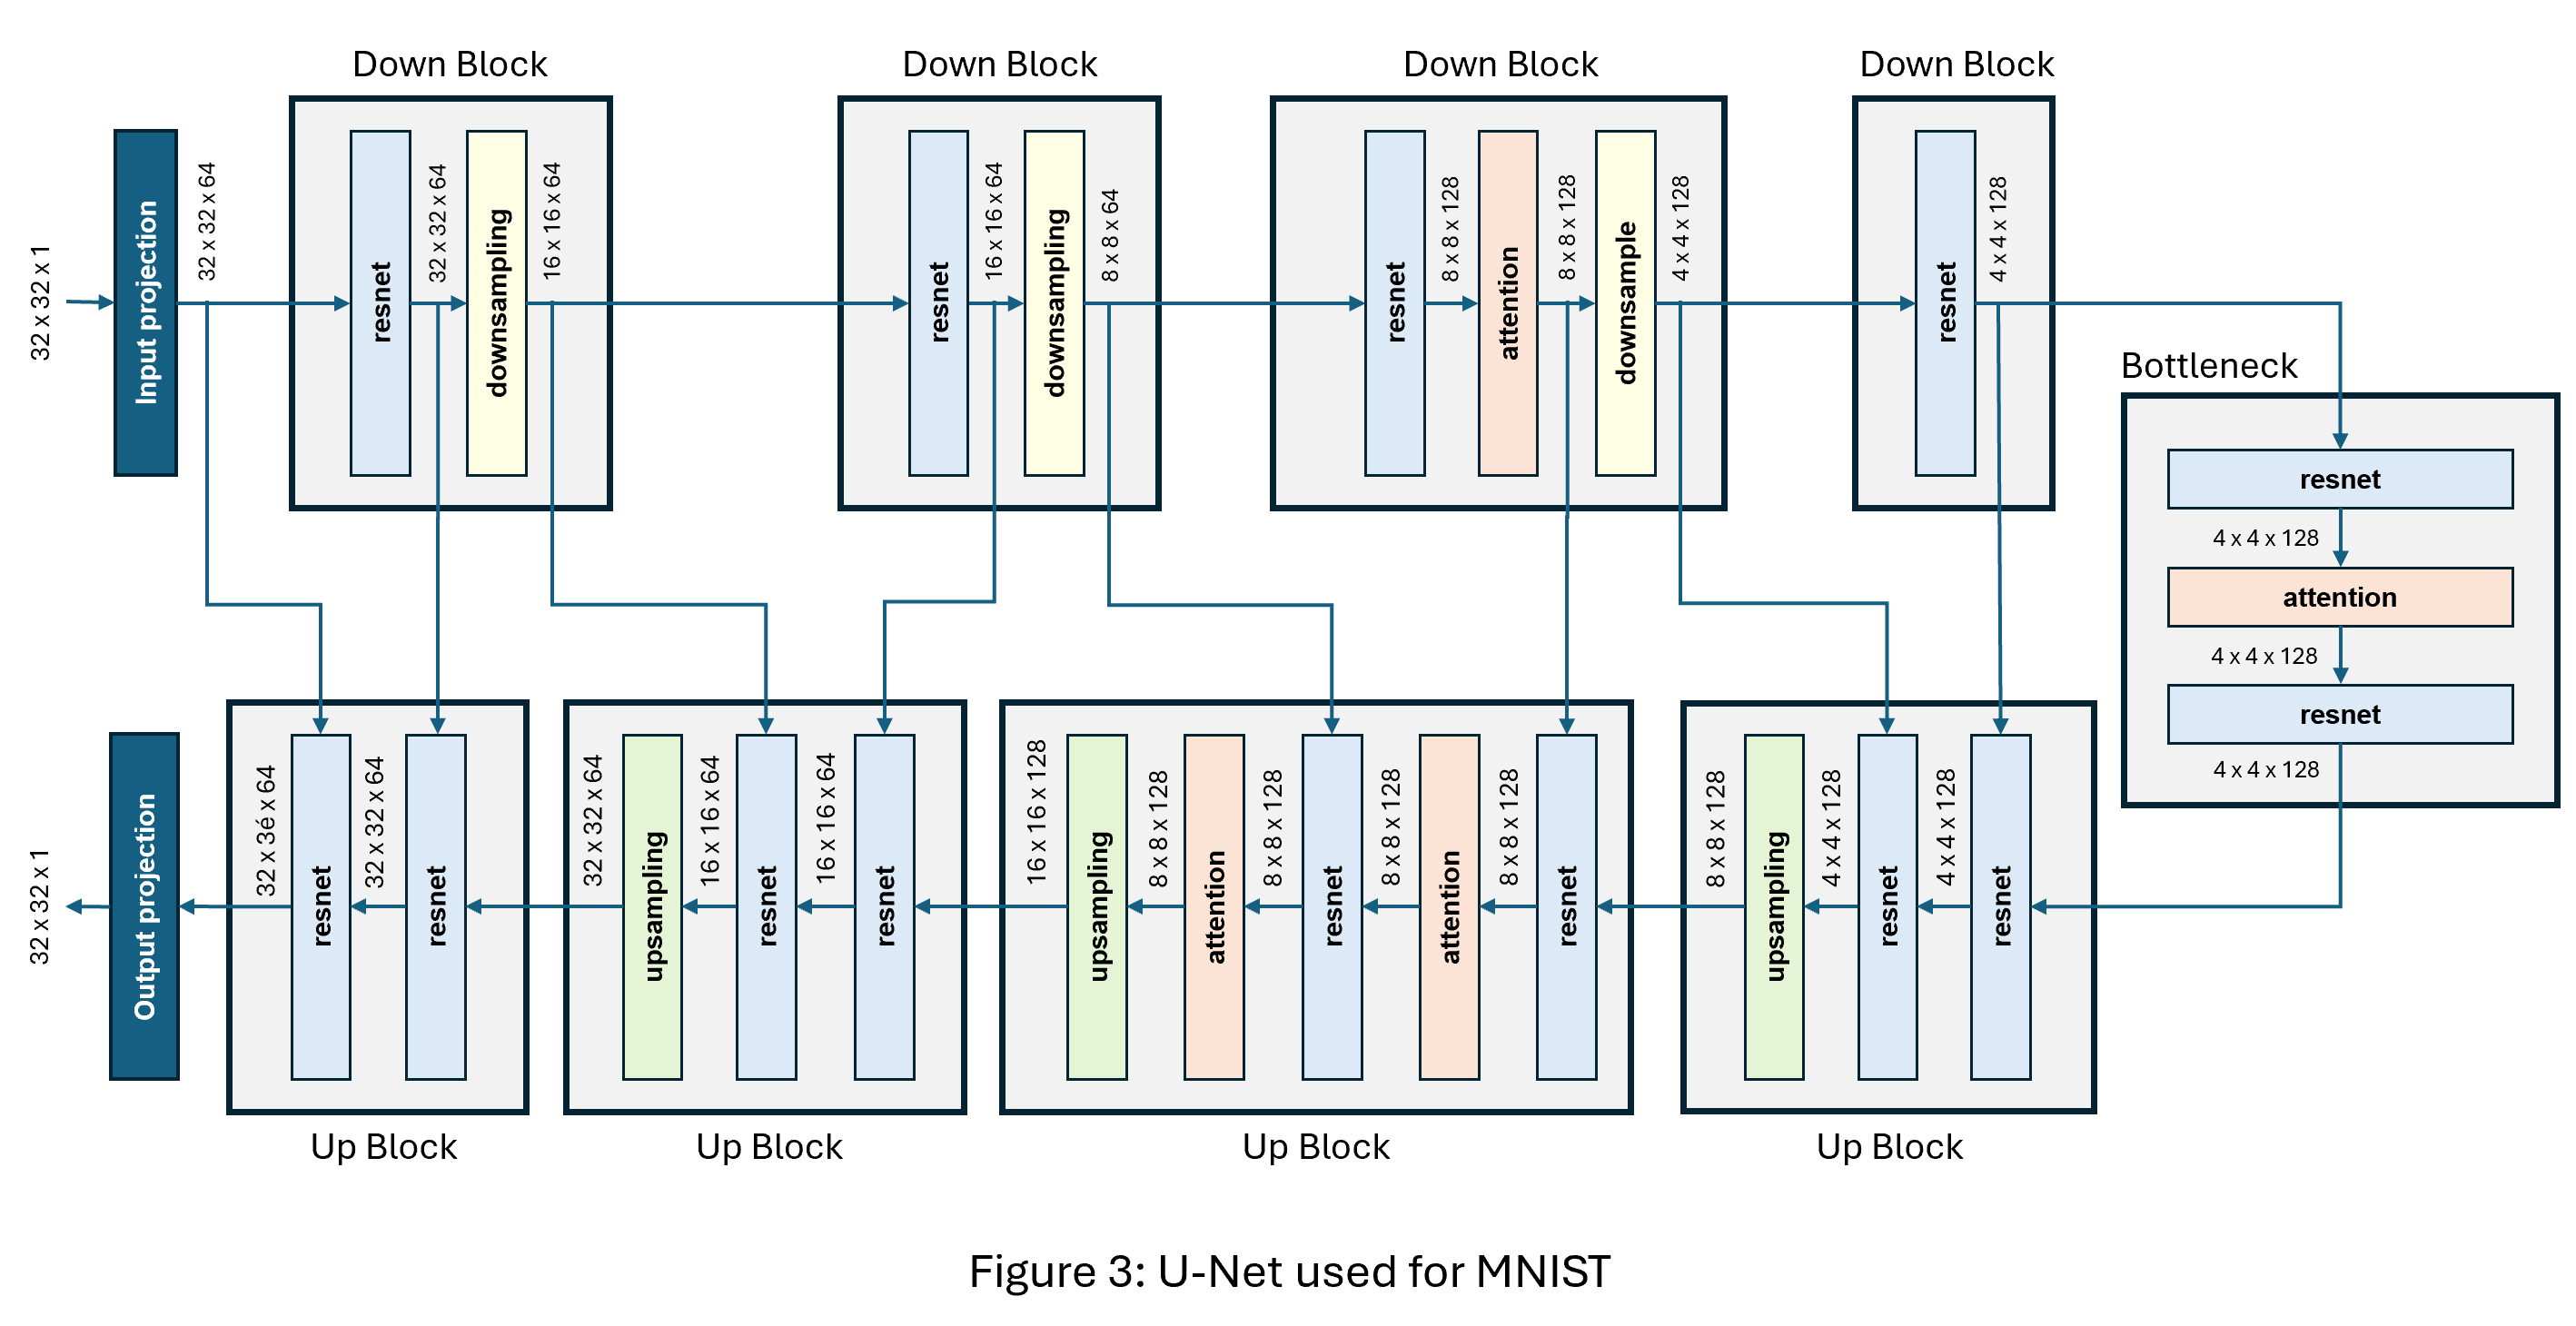
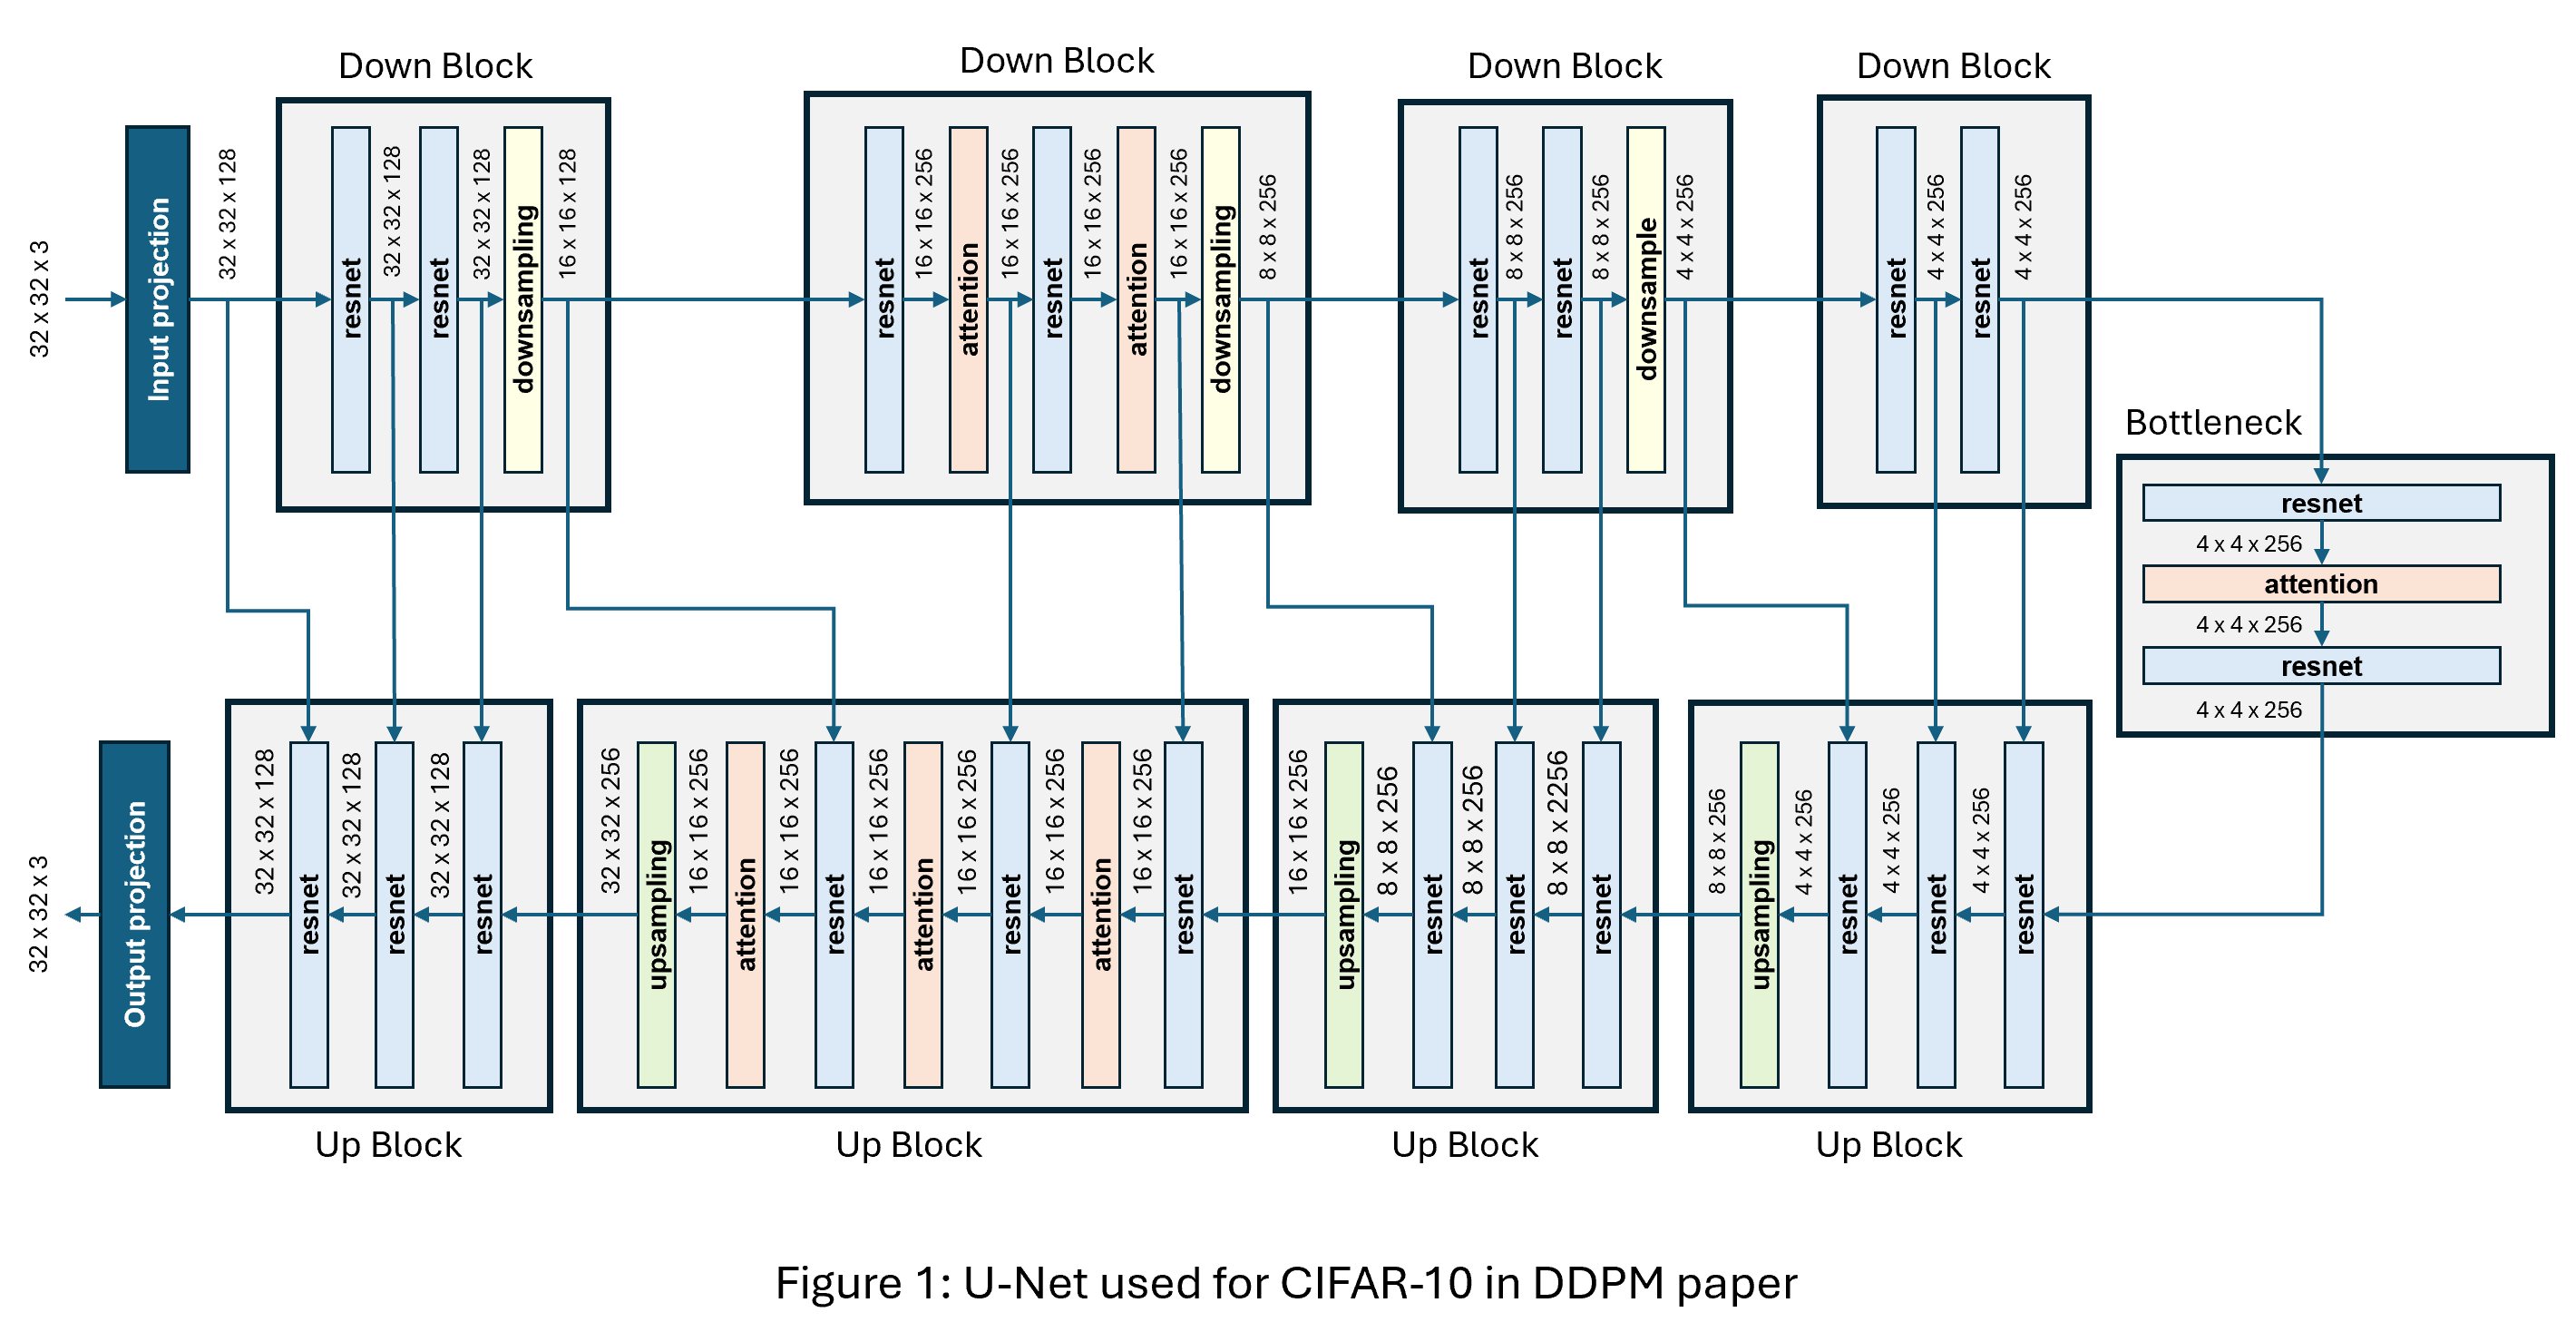
Added DDPM sampling results to README

diff --git a/README.md b/README.md
@@ -23,7 +23,9 @@ The goal of this project was to recreate the DDPM model from the 2020 paper by J
 
 While excellent PyTorch implementations of DDPM already exist (such as those by [lucidrains](https://github.com/lucidrains/denoising-diffusion-pytorch), [OpenAI](https://github.com/openai/improved-diffusion), [mattroz](https://github.com/mattroz/diffusion-ddpm), and [cloneofsimo](https://github.com/cloneofsimo/minDiffusion)), high-quality, modern TensorFlow/Keras implementations are far less common. For that reason, I chose to implement my model in TensorFlow.
 
-The math underlying diffusion models, the training and sampling algorithms, and the training setup are well-documented in the DDPM paper. However, the architecture of the U-Net is only described at a high-level (section "B. Experimental details"). Because my goal was to directly compare my FID (Fréchet Inception Distance) scores with those reported in the paper, an exact architecture match was required. As a last resort, I looked for the missing details in [Jonathan Ho's GitHub repository](https://github.com/hojonathanho/diffusion).
+The math underlying diffusion models, the training and sampling algorithms, and the training setup are well-documented in the DDPM paper. However, the architecture of the U-Net is only described at a high-level (section "B. Experimental details"). Because my goal was to directly compare my FID (Fréchet Inception Distance) scores with those reported in the paper, an exact architecture match was required.
+
+As a last resort, I looked for the missing U-Net details in [Jonathan Ho's GitHub repository](https://github.com/hojonathanho/diffusion) whose address is provided in the paper. The code is in TensorFlow 1, which is now obsolete.
 
 I first used the MNIST dataset with a light-weight U-Net as a "pipe-cleaner". The shorter runtimes facilitated the validation of training and sampling flows, and FID calculations.
 
@@ -108,7 +110,7 @@ I made the following changes to the CIFAR-10 U-Net used in the DDPM paper:
 
  With only 4.9M parameters, the MNIST U-Net is much smaller than the CIFAR-10 U-Net that has 35.9M parameters.
 
-### 5.2 Training setup
+### 5.2 Training
 
 I used the training setup described in Appendix B "Experimental details" of the DDPM paper:
 
@@ -118,17 +120,27 @@ I used the training setup described in Appendix B "Experimental details" of the 
 - Optimizer: Adam with learning rate 2e-4
 - Batch size: 128
 
-I trained the model for 250 epochs.
+I trained the model for 500 epochs. The MNIST training set has 60,000 images, so this represents ~234K optimization steps.
 
-### 5.3 FID score
+The MSE loss value as a function of epochs is shown in Figure 4. 
 
-Using 10,000 images from the MNIST training set and DDIM sampling with 50 steps, the FID score is 29.8. 
+![](pictures/mnist_loss.png)
 
-This is not a good score, but it was expected given the small size of the U-Net. The goal was not to obtain state-of-the-art results.
+### 5.3 FID scores
+
+Using the 60,000 images from the MNIST training set as the reference distribution, the FID scores I obtained are shown in the table below. 
+
+|  Steps   |   FID   |
+|----------|---------|
+|      10  |  22.15  |
+|      20  |  20.01  |
+|      50  |  19.46  |
+
+These are hardly decent results, but they were to be expected given the small size of the U-Net (only 4.9M parameters).
 
 ### 5.4 Visualizing generated images
 
-Examples of images generated with the DDPM sampling method are shown in Figure 4. The images are shown at different timesteps of the reverse process.
+Examples of MNIST images generated using the DDPM sampling method are shown in Figure 4. The images are shown at different timesteps of the reverse process.
 
 ![](pictures/mnist_ddpm_samples.png)
 
@@ -151,44 +163,62 @@ I used the training setup described in appendix B "Experimental results" of the 
 
 Ho et al. specified that they trained their model for ~800k steps with a batch size of 128, which represents 2048 epochs, so I did the same.
 
-The loss values for each epoch are shown in Figure x. No more improvement is visible when the training ends at epoch 2048.
+The loss value at each training epoch is shown in Figure 6. It is still decreasing when the training ends after 2028 epochs. Maybe Ho et al. stopped after 800K steps to avoid overfitting.
 
-Runtime on an A100 GPU was 48sec/epoch on an A100 GPU, so the training took ~27 hours to run.
+Runtime on an A100 GPU was 48sec/epoch, so the training took ~27 hours.
 
-![](pictures/mse_loss.png)
+![](pictures/cifar10_loss.png)
 
 ### 6.3 FID scores
 
-Like Ho et al., I used the 50,000 images of the CIFAR-10 training set as the reference distribution.
+Like Ho et al., I used the 50,000 images of the CIFAR-10 training set as the reference distribution. 
 
-I computed the FID at epoch 1200 of the training, which is about half-way to Ho et al.'s 800K steps. Using deterministic DDIM sampling with 200 steps, the computed value is 4.94.
+The FID values Song et al. mentioned in their paper (Table 1) are shown in the table below, together with my own results.
 
-FID values at the end of the training at epoch 2048 are shown in the table below for different numbers of DDIM steps, together with the runtimes on an A100 GPU generating batches of 2000 images.
+|  Steps   |  Song et al.  |  My model   |
+|----------|---------------|-------------|
+|      10  |     13.36     |    15.82    |
+|      20  |      6.84     |     7.83    |
+|      50  |      4.67     |     5.06    |
+|     100  |      4.16     |     4.49    |
+|    1000  |      4.04     |     4.14    |
 
+Although not as good as the FID scores Song et al. reported, my results are all in the same ballpark, and nearly identical for 100  and 1000 steps.
 
-|  Denoising steps  |  Sampling method   |   FID  |  Runtime (hh:mm)  |
-|-------------------|-----------|-----------|---------------------|
-|      50           |    DDIM   |   5.77    |         0:20        |
-|     100           |    DDIM   |   4.53    |         0:41        |
-|     200           |    DDIM   |   4.11    |         1:22        |
-|    1000           |    DDPM   |           |                     |
+In section "D.1 Datasets and architectures" of "Appendix D. Experimental Details" of their paper, Song et al. specified: *"We use the pretrained models from Ho et al.(2020) for CIFAR10"*. They did not create and train their own model, like I did, so their numbers truly reflect the performance of Ho et al.'s model.
 
-As expected:
+Given how close my FID results are, it is very unlikely that differences could be caused by a misalignment of model architectures. They most probably originate from the training.
 
-- The FID improves with the number of steps.
-- Because they are dominated by the number of forward passes through the U-Net, runtimes increase linearly with the number of steps.
+Looking into Ho's code on GitHub, I could spot the following enhancements that are not documented in their paper, which I did not implement:
 
-Note that the 200-step-DDIM FID decreased from 4.94 after 1200 training epochs to 4.11 after 2048 epochs.
+- They used a 5000 steps warmup before holding the learning rate steady at 2e-4.
+- They clipped gradients to 1.0.
 
-Ho et al. reported an FID value of 3.17 using the 50,000 images of the CIFAR-10 training set as the reference distribution (Table 1 in the paper).
+FID mismatches could also come from subtle numerical differences between GPU and TPU training (they used TPU), and from random generation differences due to different hardware and seeds. 
+
+In their paper, Ho et al. reported an FID value of 3.17. Using their sampling method, I got an FID of 6.43 with a first run, and 5.71 with a second run after changing the random generation seed. With this method, which is statistical, changing seeds or hardware (they used TPU, I used GPU) yields significantly different results. It is unknown if Ho et al. could reliably reproduce their 3.17 run.
+
+I ran DDIM sampling with eta=1, making sampling statistical and approaching DDPM. Using 100 steps, I obtained an FID of 5.76. This is consistent with the DDPM sampling results.
+
+### 6.4 Sampling runtimes
+
+The table below shows the runtimes on an A100 GPU to generate 50,000 CIFAR-10 images, using DDIM sampling with different numbers of steps. Because they are dominated by the number of forward passes through the U-Net, runtimes increase linearly with the number of steps.
+
+|  Steps  |  A100 runtime (h:mm:ss)  |
+|---------|------------------------|
+|    10   |       0:04:74          |
+|    20   |       0:09:57          |
+|    50   |       0:20:49          |
+|   100   |       0:41:00          |
+|  1000   |       6:55:10          |
 
 ### 6.4 Visualizing generated images
 
-Figure 7 shows examples of images obtained using the DDPM sampling method.
+Figure 7 shows examples of images obtained using the DDPM sampling method, which yields an FID of 4.40.
 
 ![](pictures/cifar10_ddpm_samples.png)
 
-Figure 8 shows images generated using the DDIM sampling method with 200 steps.
+Figure 8 shows images generated using the DDIM sampling method with 100 steps.
 
 Examples of generative "hallucinations" are shown on the last row of images:
 
@@ -197,13 +227,21 @@ Examples of generative "hallucinations" are shown on the last row of images:
 - A pink cat
 - A deer with front legs shaped like horns
 
-The images were obtained using only 25 DDIM steps, which corresponds to an FID of x.
+The images were obtained using only 100 DDIM steps, which corresponds to an FID of 4.40.
 
 ![](pictures/cifar10_ddim_samples.png)
 
 
 ## 7. Conclusion
 
-Recreating the diffusion model from the landmark DDPM paper by Jonathan Ho et al. bridged the gap between the theoretical generative equations and the intricacies of the U-Net architecture, training and evaluation procedures, and interpretation of results.
+Recreating the diffusion model from the landmark DDPM paper by Jonathan Ho et al. bridged the gap between the theoretical generative equations and the intricacies of the U-Net architecture, training and sampling methods, and interpretation of results.
 
-It was absolutely fascinating to observe images progressively emerging from noise during the reverse process!
+The main difficulty was to recreate the U-Net used in the DDPM paper. As many details were missing in the paper, I had to reverse-engineer the authors' TensorFlow 1 code on GitHub.
+
+I used the training setup described in Ho et al.'s paper. Looking into their code afterwards, they used gradient clipping and learning rate warmup steps. As they were not documented in the paper, I did not implement them. This may explain some of the FID differences with their results.
+
+The FID results I obtained with DDIM sampling are very close to the results Song et al. reported in their paper, using a DDPM model created and trained by Ho et al This demonstrates that my model, recreated and trained from scratch, performs at about the same level.
+
+The FID results I got with DDPM sampling are significantly worse than the score Ho et al. reported in their paper. However, random generation clearly impacts results. With more trials, I may have been able to improve my results.
+
+This work shows that reproducing results from research papers is not always straightforward, a well-known problem. But it was very rewarding to watch images emerging from pure noise!